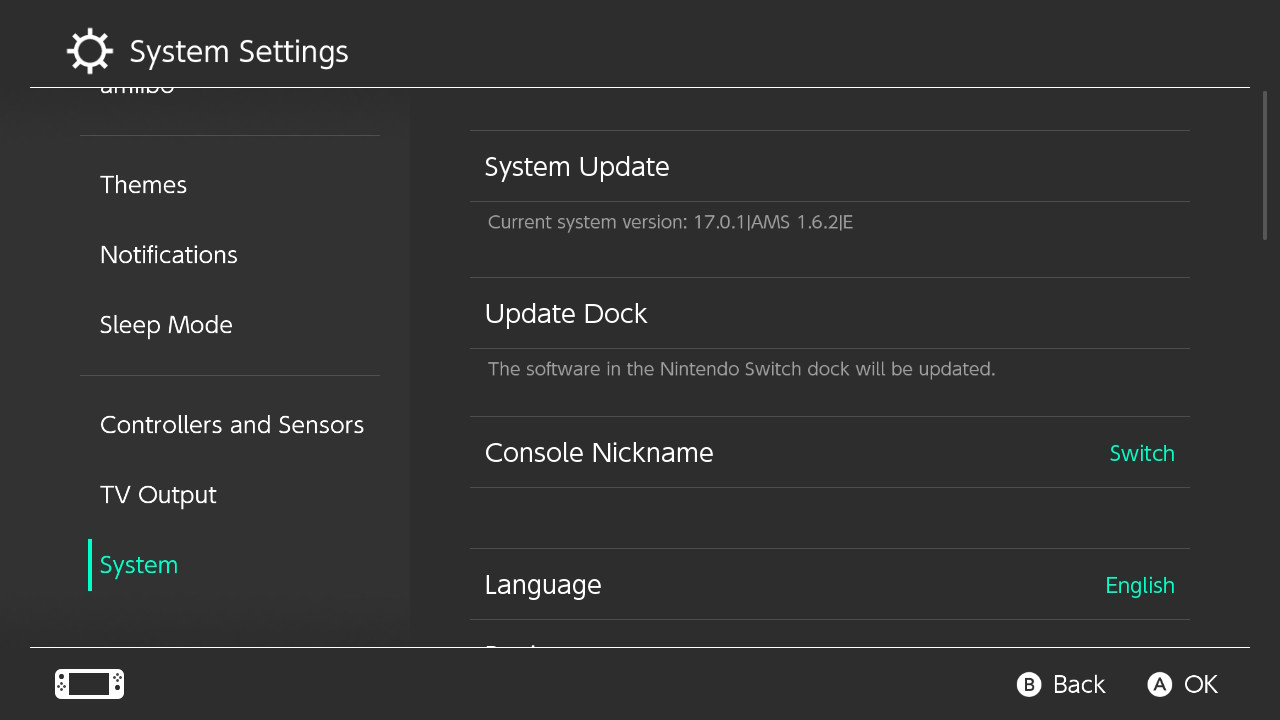
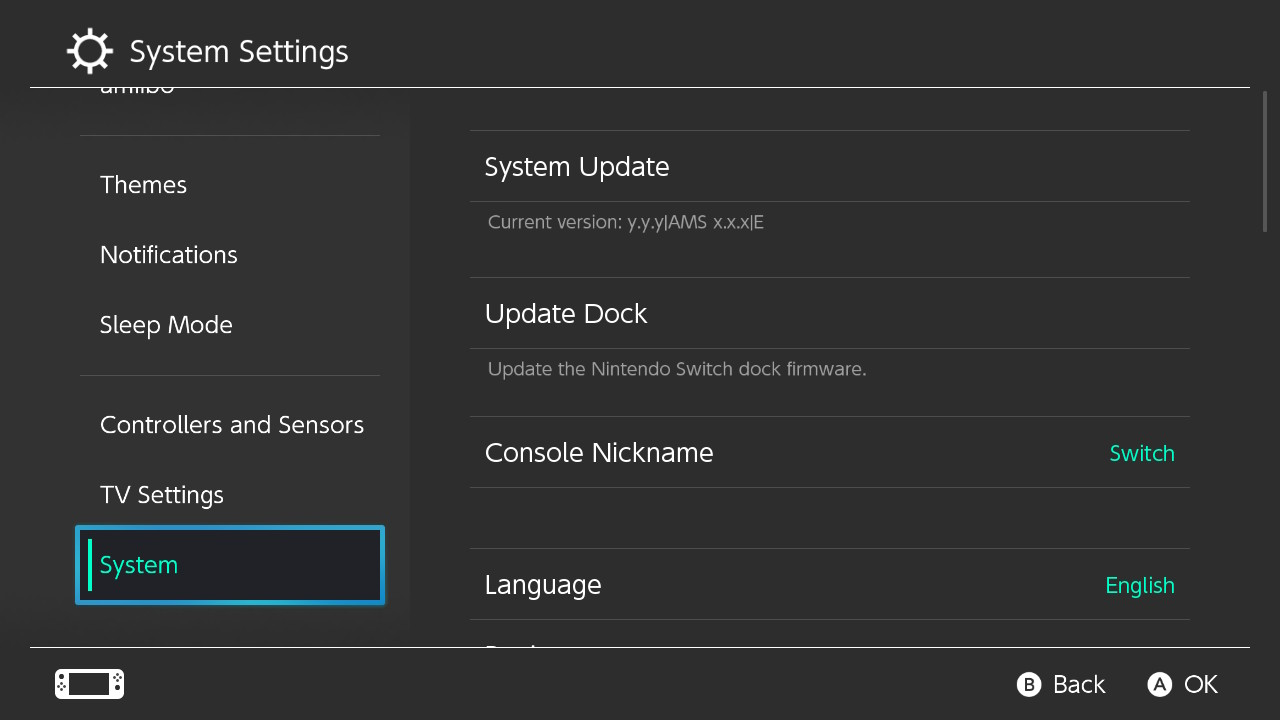
Misc changes to the launching_cfw page, including (imo) better settings picture(s). (#288)

Pull request: Misc changes to the launching_cfw page, including (in my opinion) better settings pictures.
Don't know how I started on this, but a lot of this page I felt could be improved.

Changed region(s): [[0.0312, 0.6722, 0.3125, 0.8556], [0.375, 0.4889, 0.7812, 0.5194], [0.4375, 0.275, 0.6562, 0.3361]]

diff --git a/docs/user_guide/all/launching_cfw.md b/docs/user_guide/all/launching_cfw.md
@@ -7,9 +7,9 @@ outline: false
 
 Now that the preparation work is out of the way, we're finally ready to launch custom firmware on the Switch.
 
-Unlike systems such as the DSi, Wii, or 3DS, Switch CFW is currently volatile (nonpersistent).
+Unlike systems such as the DSi, Wii, or 3DS, Switch CFW is volatile (nonpersistent).
 
-It will only work as long as your Switch is on. As soon as your Switch completely loses power for any reason (shutting down, battery dying, etc.), CFW will no longer be active and you will need to enter RCM and inject the hekate payload if you wish to boot into CFW again (only relevant for users with unpatched consoles).
+It will only stay as long as your Switch is on and in CFW. As soon as your Switch completely turns off, or exits CFW for any reason (shutting down, battery dying, booting stock etc.), CFW will no longer be active. If you wish to boot into CFW again, with an unpatched console you will need to enter RCM and inject the hekate payload while with a modchip, you only need to power the console on and the modchip will inject the payload.
 
 ::: danger
 
@@ -38,6 +38,8 @@ If you wish to set up an extra method of blocking Nintendo's servers on your emu
 
 ![Atmosphere version string](img/launching_cfw_atmosphere_version_string2.jpg)
 
+* **Note:** The `y.y.y` is where your system version would be. The `x.x.x` after the `AMS` is where your Atmosphere version would be.
+
 ::::
 
 :::: tab Instructions for sysCFW
@@ -53,6 +55,7 @@ Hekate is now booting into sysCFW. To verify that sysCFW launched properly, open
 
 ![Atmosphere version string](img/launching_cfw_atmosphere_version_string3.jpg)
 
+* **Note:** The `y.y.y` is where your system version would be. The `x.x.x` after the `AMS` is where your Atmosphere version would be.
 ::::
 
 :::::
@@ -61,19 +64,19 @@ Hekate is now booting into sysCFW. To verify that sysCFW launched properly, open
 
 **Rebooting to Hekate**
 
-Once booted into CFW, you can easily get back to Hekate by holding the power button, and selecting `Restart` in the power menu or by using the "reboot to payload" homebrew app in the homebrew menu. (Note that while the Reboot to Payload *app* app does *not* work on modchipped Switch consoles, those already automatically run payloads upon reboot in the first place by default.)
+Once booted into CFW, you can easily get back to Hekate by using the "reboot to payload" homebrew app in the homebrew menu, or by holding the power button, and then selecting `Restart` in the power menu. (Note that while the Reboot to Payload app does *not* work on modchipped Switch consoles. Those consoles already automatically run payloads upon reboot.)
 
 :::
 
 ## Launching the Homebrew Menu
 
-You will now be able to launch the Homebrew Menu by opening the album or by holding the `R` button while launching any game (including demos/cartridges), or application (e.g. YouTube/Hulu). If `R` is not held, the game or application will launch like normal.
+You will now be able to launch the Homebrew Menu by opening the album (called "applet mode") or by holding the `R` button while launching any game (including demos/cartridges), or application (e.g. YouTube/Hulu) (called "title override"). If `R` is not held, the game or application will launch like normal.
 
 ::: warning
 
 **A note about using the album for the Homebrew Menu**
 
-* Using Album for the Homebrew Menu instead of a game or application has several limitations, including but not limited to: a smaller amount of available memory (RAM), as well as being unable to launch a full-featured web browser. It is strongly recommended to launch homebrew through applications or games instead.
+* Using the Album for the Homebrew Menu instead of a game or application has several limitations, including but not limited to: much less available memory (RAM), as well as being unable to launch a full-featured web browser. It is recommended to launch homebrew through applications or games instead.
 
 :::
 